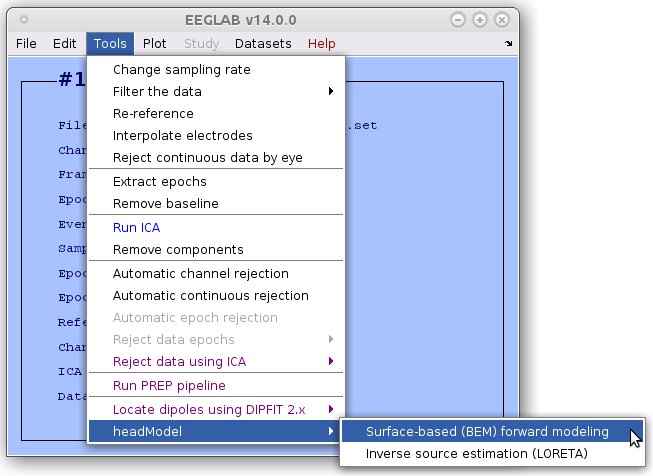
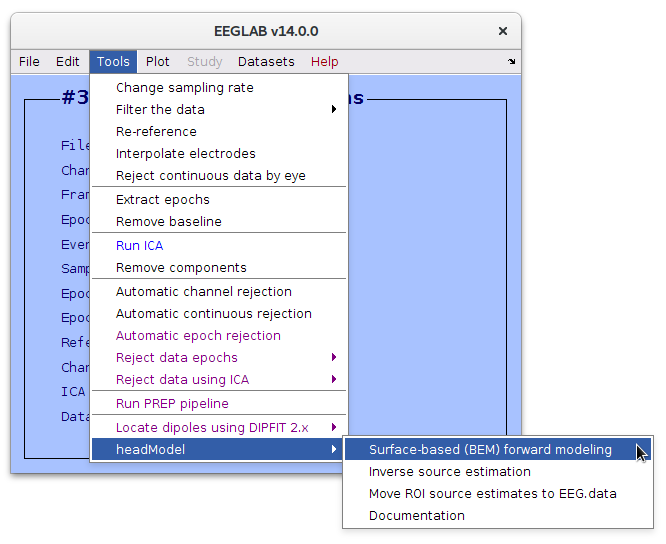
Updating docs

diff --git a/doc/eeglab_hm_plugin.md b/doc/eeglab_hm_plugin.md
@@ -1,11 +1,11 @@
 ## GUI interface for EEGLAB
 Before you use the toolbox, please check out the pre-processing guidelines [here](https://github.com/aojeda/headModel/blob/master/doc/pop_functions.md#pre-processing).
 
-We can use the `headModel` toolbox as a plug-in for [EEGLAB](https://sccn.ucsd.edu/eeglab/) by cloning or downloading this repo to the `eeglab/plugins/` folder in your local machine. Once EEGLAB's GUI pops up, we can access the `headModel` menu item in the tools menu as shown in the figure below 
+We can use the `headModel` toolbox as a plug-in for [EEGLAB](https://sccn.ucsd.edu/eeglab/) by cloning or downloading this repo to the `eeglab/plugins/` folder in your local machine. Once EEGLAB's GUI pops up, we can access the `headModel` menu item in the tools menu as shown in the figure below
 
 ![eeglab_hm_plugin](https://github.com/aojeda/headModel/blob/master/doc/assets/eeglab_hm_plugin.png)
 
-### Surface-based (BEM)forward modeling
+### Surface-based (BEM) forward modeling
 This option allows us to perform a semi-automatic coregistration between our channel positions and a selected head model template. After we are done with the co-registration we can proceed to compute the lead field model for our montage and selected head model using the Boundary Element Method as implemented by the [OpenMEEG](https://openmeeg.github.io/) toolbox. The resulting forward model is stored in a `headModel` object, usually saved next to the *.set* file, a pointer to it is saved in `EEG.etc.src.hmfile`.
 
 Learn more in the page for [Coregistration](https://github.com/aojeda/headModel/blob/master/doc/coregistration.md).
@@ -18,10 +18,12 @@ Source estimation is performed on non-overlaping and consecutive segments of dat
 
 * `actFull`: a tensor of number of sources by `EEG.pnts` by `EEG.trials` that contains the source time series,
 * `act`: same as `actFull` but the first dimension is collapsed within ROIs (regions of interest) that correspond to the atlas in the head model, resulting in a tensor of number of ROI by `EEG.pnts` by `EEG.trials` that contains the source time series per ROI,
-* `roi`: cell array of ROI labels. 
+* `roi`: cell array of ROI labels.
 
 See the documentation for `pop_inverseSolution` [here](https://github.com/aojeda/headModel/blob/master/doc/pop_functions.md#pop_inversesolution).
 
+### Move ROI source estimates to EEG.data
+This option calls `moveSource2DataField` to create an `EEG` structure where the `EEG.data` field holds the ROI source data compute by `pop_inverseSolution`. The resulting `EEG` structure will be added to `ALLEEG` and shown in the main gui. This option is particularly handy because it allows the use of all the functions in EEGLAB (epoching, filtering, erpimage, etc.) with our source estimates.
 
 
 [Back](https://github.com/aojeda/headModel/blob/master/doc/Documentation.md)
